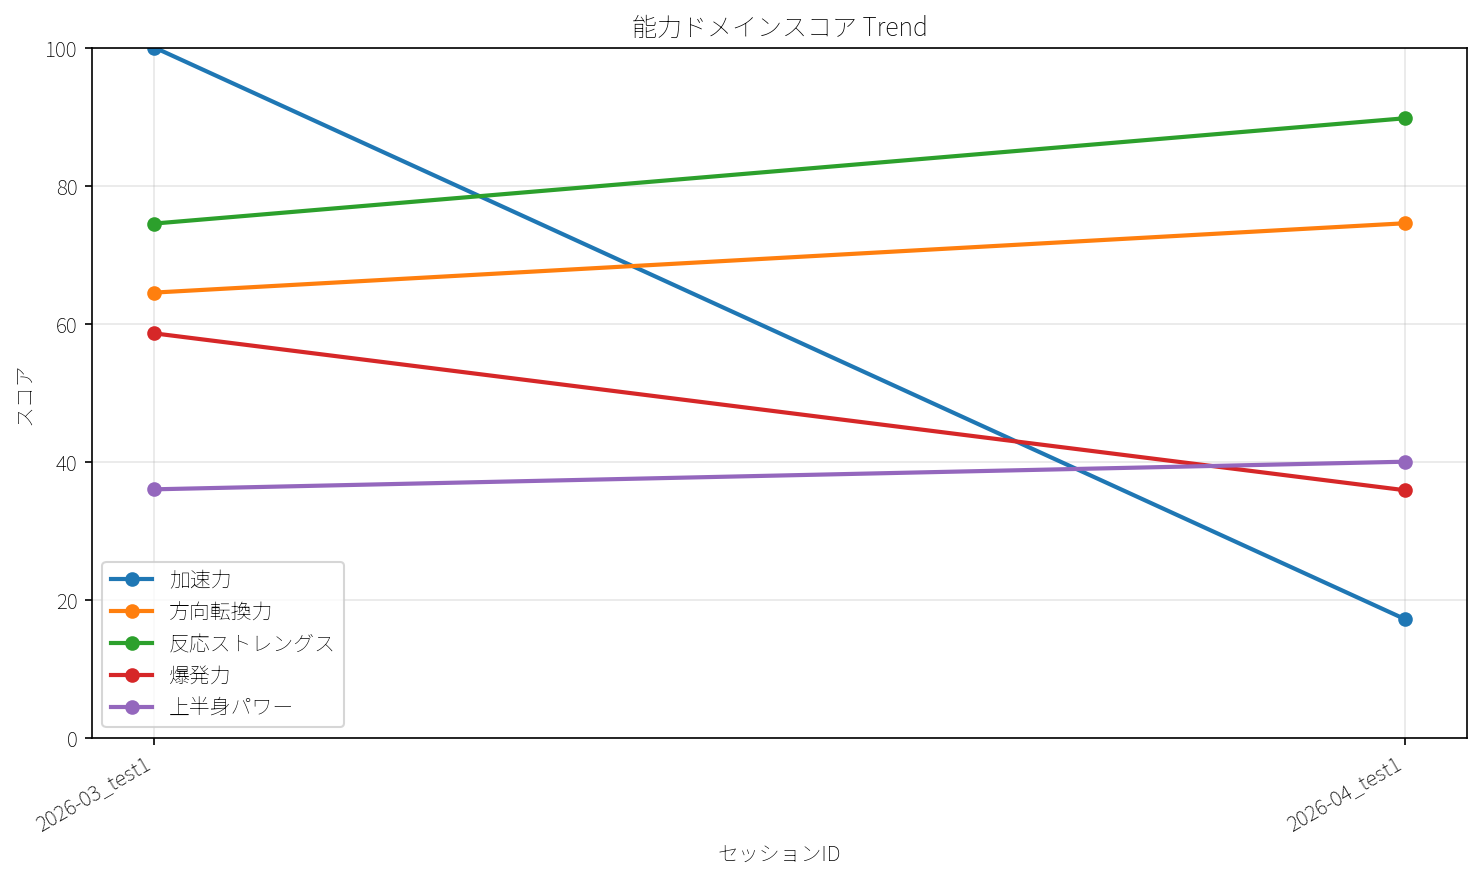
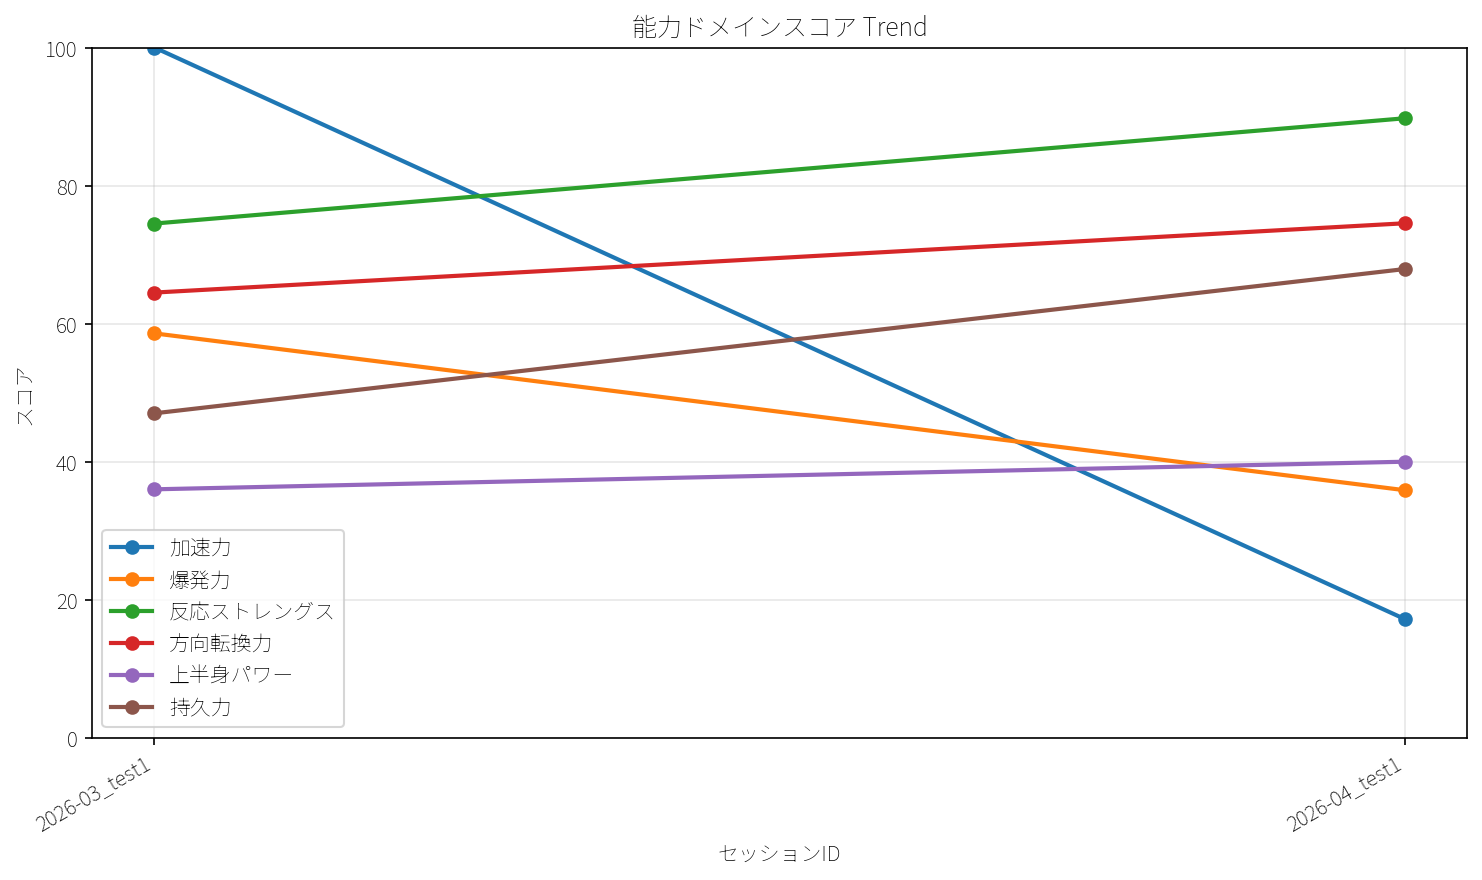
Fix domain score trend to include endurance axis

diff --git a/scripts/generate_growth_trend_chart.py b/scripts/generate_growth_trend_chart.py
@@ -87,10 +87,11 @@ def plot_rugby_score_trend(df: pd.DataFrame, labels: dict[str, str]) -> None:
 def plot_domain_scores_trend(df: pd.DataFrame, labels: dict[str, str]) -> None:
     domain_cols = [
         ("acceleration_score", "acceleration"),
-        ("cod_score", "cod"),
-        ("reactive_strength_score", "reactive_strength"),
         ("explosive_power_score", "explosive_power"),
+        ("reactive_strength_score", "reactive_strength"),
+        ("cod_score", "cod"),
         ("upper_body_power_score", "upper_body_power"),
+        ("endurance_score", "endurance"),
     ]
 
     fig, ax = plt.subplots(figsize=(10, 6))
